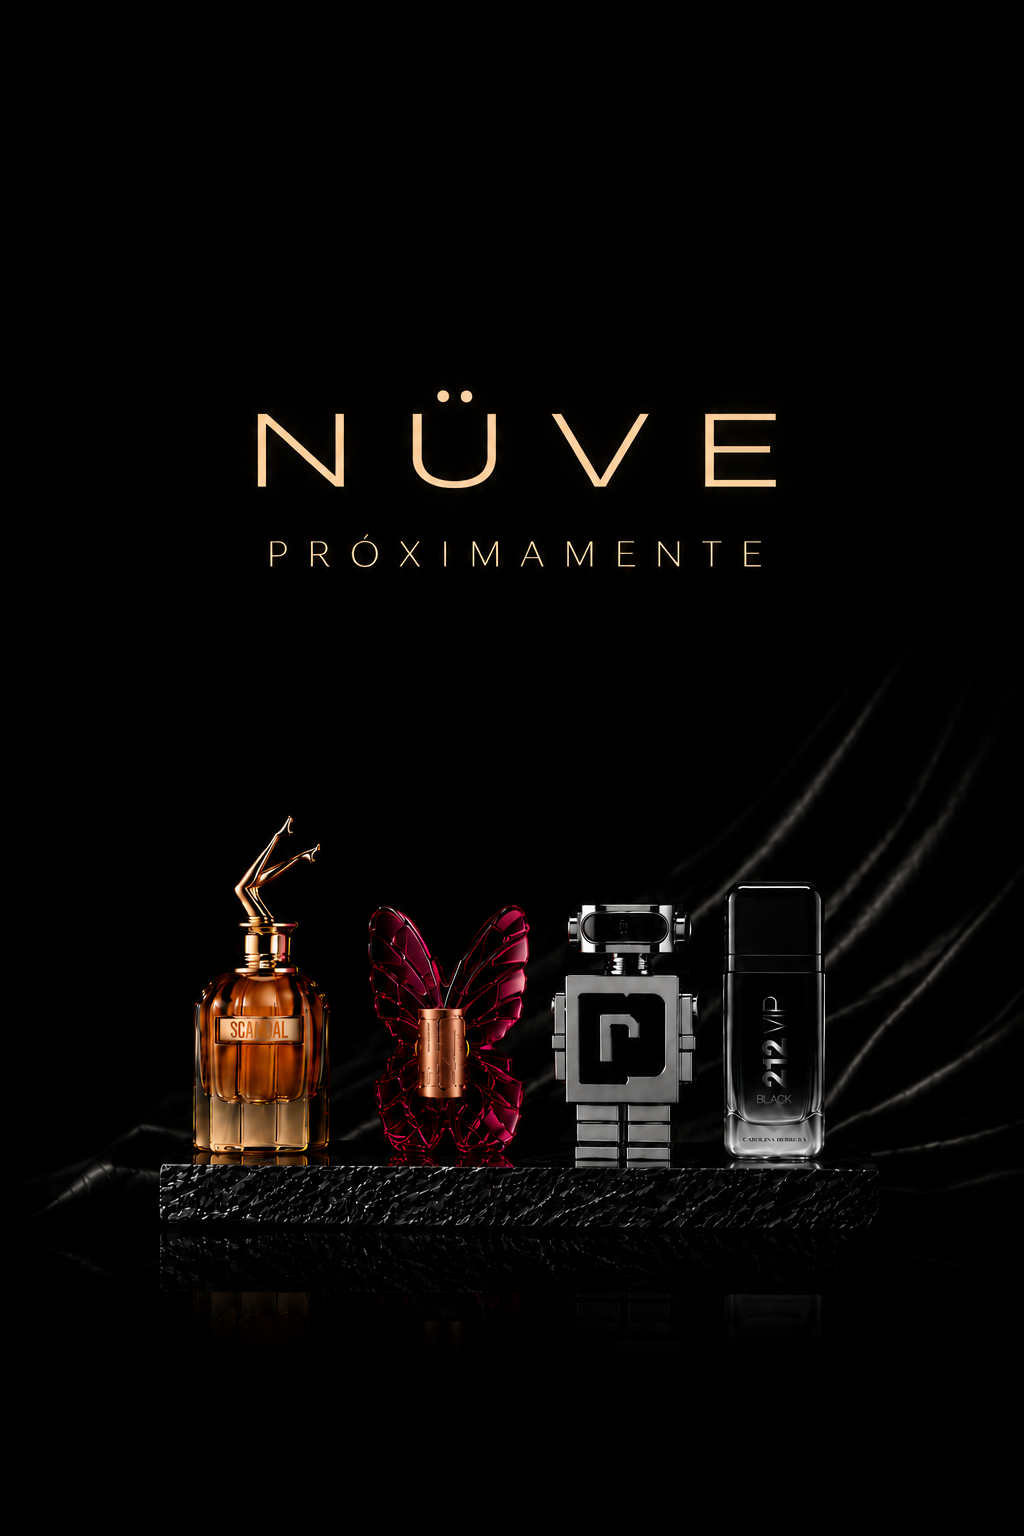
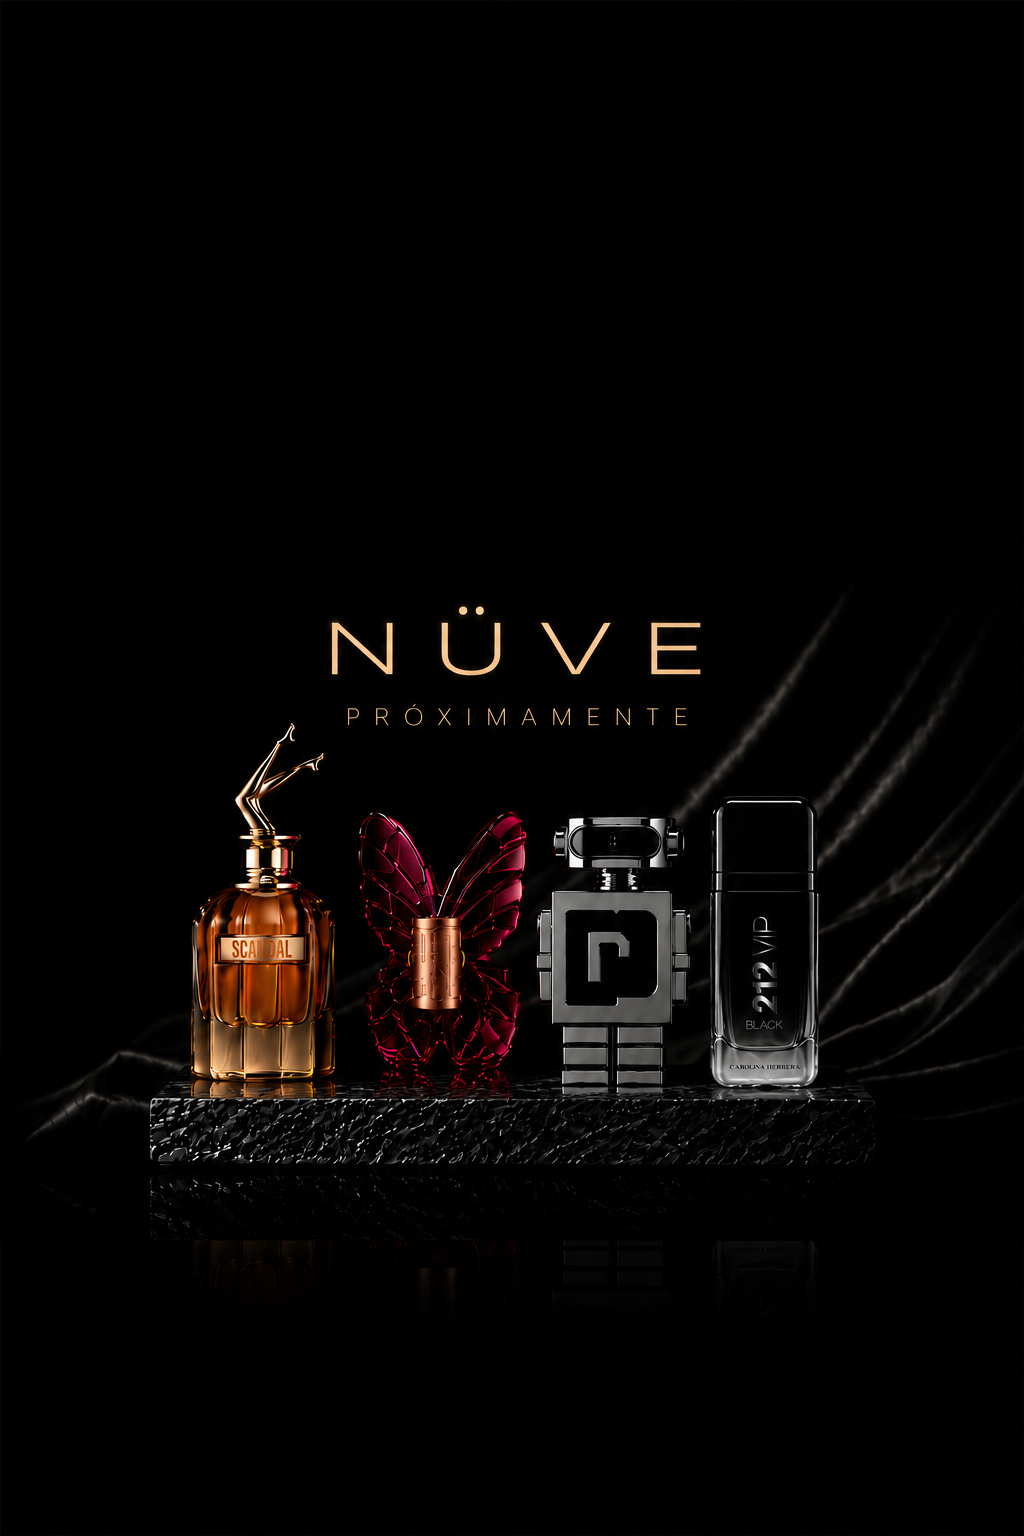
update banner1 mobile image, bump CSS to v=3 for cache busting

diff --git a/frontend/index.html b/frontend/index.html
@@ -8,7 +8,7 @@
   <link rel="preconnect" href="https://fonts.googleapis.com">
   <link rel="preconnect" href="https://fonts.gstatic.com" crossorigin>
   <link href="https://fonts.googleapis.com/css2?family=Cinzel:wght@400;500&family=Montserrat:wght@300;400;500;600&display=swap" rel="stylesheet">
-  <link rel="stylesheet" href="css/style.css?v=2">
+  <link rel="stylesheet" href="css/style.css?v=3">
   <link href="https://api.fontshare.com/v2/css?f[]=garet@400,700&display=swap" rel="stylesheet">
 </head>
 <body>

diff --git a/frontend/productos.html b/frontend/productos.html
@@ -9,7 +9,7 @@
   <link rel="preconnect" href="https://fonts.gstatic.com" crossorigin>
   <link href="https://fonts.googleapis.com/css2?family=Cinzel:wght@400;500&family=Montserrat:wght@300;400;500;600&display=swap" rel="stylesheet">
   <link href="https://api.fontshare.com/v2/css?f[]=garet@400,700&display=swap" rel="stylesheet">
-  <link rel="stylesheet" href="css/style.css?v=2">
+  <link rel="stylesheet" href="css/style.css?v=3">
 </head>
 <body class="page-productos">
 

diff --git a/frontend/checkout-resultado.html b/frontend/checkout-resultado.html
@@ -8,7 +8,7 @@
   <link rel="preconnect" href="https://fonts.gstatic.com" crossorigin>
   <link href="https://fonts.googleapis.com/css2?family=Cinzel:wght@400;500&family=Montserrat:wght@300;400;500;600&display=swap" rel="stylesheet">
   <link href="https://api.fontshare.com/v2/css?f[]=garet@400,700&display=swap" rel="stylesheet">
-  <link rel="stylesheet" href="css/style.css?v=2">
+  <link rel="stylesheet" href="css/style.css?v=3">
 </head>
 <body class="page-checkout">
 

diff --git a/frontend/checkout.html b/frontend/checkout.html
@@ -9,7 +9,7 @@
   <link rel="preconnect" href="https://fonts.gstatic.com" crossorigin>
   <link href="https://fonts.googleapis.com/css2?family=Cinzel:wght@400;500&family=Montserrat:wght@300;400;500;600&display=swap" rel="stylesheet">
   <link href="https://api.fontshare.com/v2/css?f[]=garet@400,700&display=swap" rel="stylesheet">
-  <link rel="stylesheet" href="css/style.css?v=2">
+  <link rel="stylesheet" href="css/style.css?v=3">
 </head>
 <body class="page-checkout">
 

diff --git a/frontend/carrito.html b/frontend/carrito.html
@@ -9,7 +9,7 @@
   <link rel="preconnect" href="https://fonts.gstatic.com" crossorigin>
   <link href="https://fonts.googleapis.com/css2?family=Cinzel:wght@400;500&family=Montserrat:wght@300;400;500;600&display=swap" rel="stylesheet">
   <link href="https://api.fontshare.com/v2/css?f[]=garet@400,700&display=swap" rel="stylesheet">
-  <link rel="stylesheet" href="css/style.css?v=2">
+  <link rel="stylesheet" href="css/style.css?v=3">
 </head>
 <body class="page-carrito">
 

diff --git a/frontend/nosotros.html b/frontend/nosotros.html
@@ -9,7 +9,7 @@
   <link rel="preconnect" href="https://fonts.gstatic.com" crossorigin>
   <link href="https://fonts.googleapis.com/css2?family=Cinzel:wght@400;500&family=Montserrat:wght@300;400;500;600&display=swap" rel="stylesheet">
   <link href="https://api.fontshare.com/v2/css?f[]=garet@400,700&display=swap" rel="stylesheet">
-  <link rel="stylesheet" href="css/style.css?v=2">
+  <link rel="stylesheet" href="css/style.css?v=3">
 </head>
 <body>
 

diff --git a/frontend/originales.html b/frontend/originales.html
@@ -8,7 +8,7 @@
   <link rel="preconnect" href="https://fonts.googleapis.com">
   <link rel="preconnect" href="https://fonts.gstatic.com" crossorigin>
   <link href="https://fonts.googleapis.com/css2?family=Cinzel:wght@400;500&family=Montserrat:wght@300;400;500;600&display=swap" rel="stylesheet">
-  <link rel="stylesheet" href="css/style.css?v=2">
+  <link rel="stylesheet" href="css/style.css?v=3">
 </head>
 <body data-tipo="original">
 

diff --git a/frontend/testers.html b/frontend/testers.html
@@ -8,7 +8,7 @@
   <link rel="preconnect" href="https://fonts.googleapis.com">
   <link rel="preconnect" href="https://fonts.gstatic.com" crossorigin>
   <link href="https://fonts.googleapis.com/css2?family=Cinzel:wght@400;500&family=Montserrat:wght@300;400;500;600&display=swap" rel="stylesheet">
-  <link rel="stylesheet" href="css/style.css?v=2">
+  <link rel="stylesheet" href="css/style.css?v=3">
 </head>
 <body data-tipo="tester">
 

diff --git a/frontend/contacto.html b/frontend/contacto.html
@@ -8,7 +8,7 @@
   <link rel="preconnect" href="https://fonts.googleapis.com">
   <link rel="preconnect" href="https://fonts.gstatic.com" crossorigin>
   <link href="https://fonts.googleapis.com/css2?family=Cinzel:wght@400;500&family=Montserrat:wght@300;400;500;600&display=swap" rel="stylesheet">
-  <link rel="stylesheet" href="css/style.css?v=2">
+  <link rel="stylesheet" href="css/style.css?v=3">
 </head>
 <body>
 
